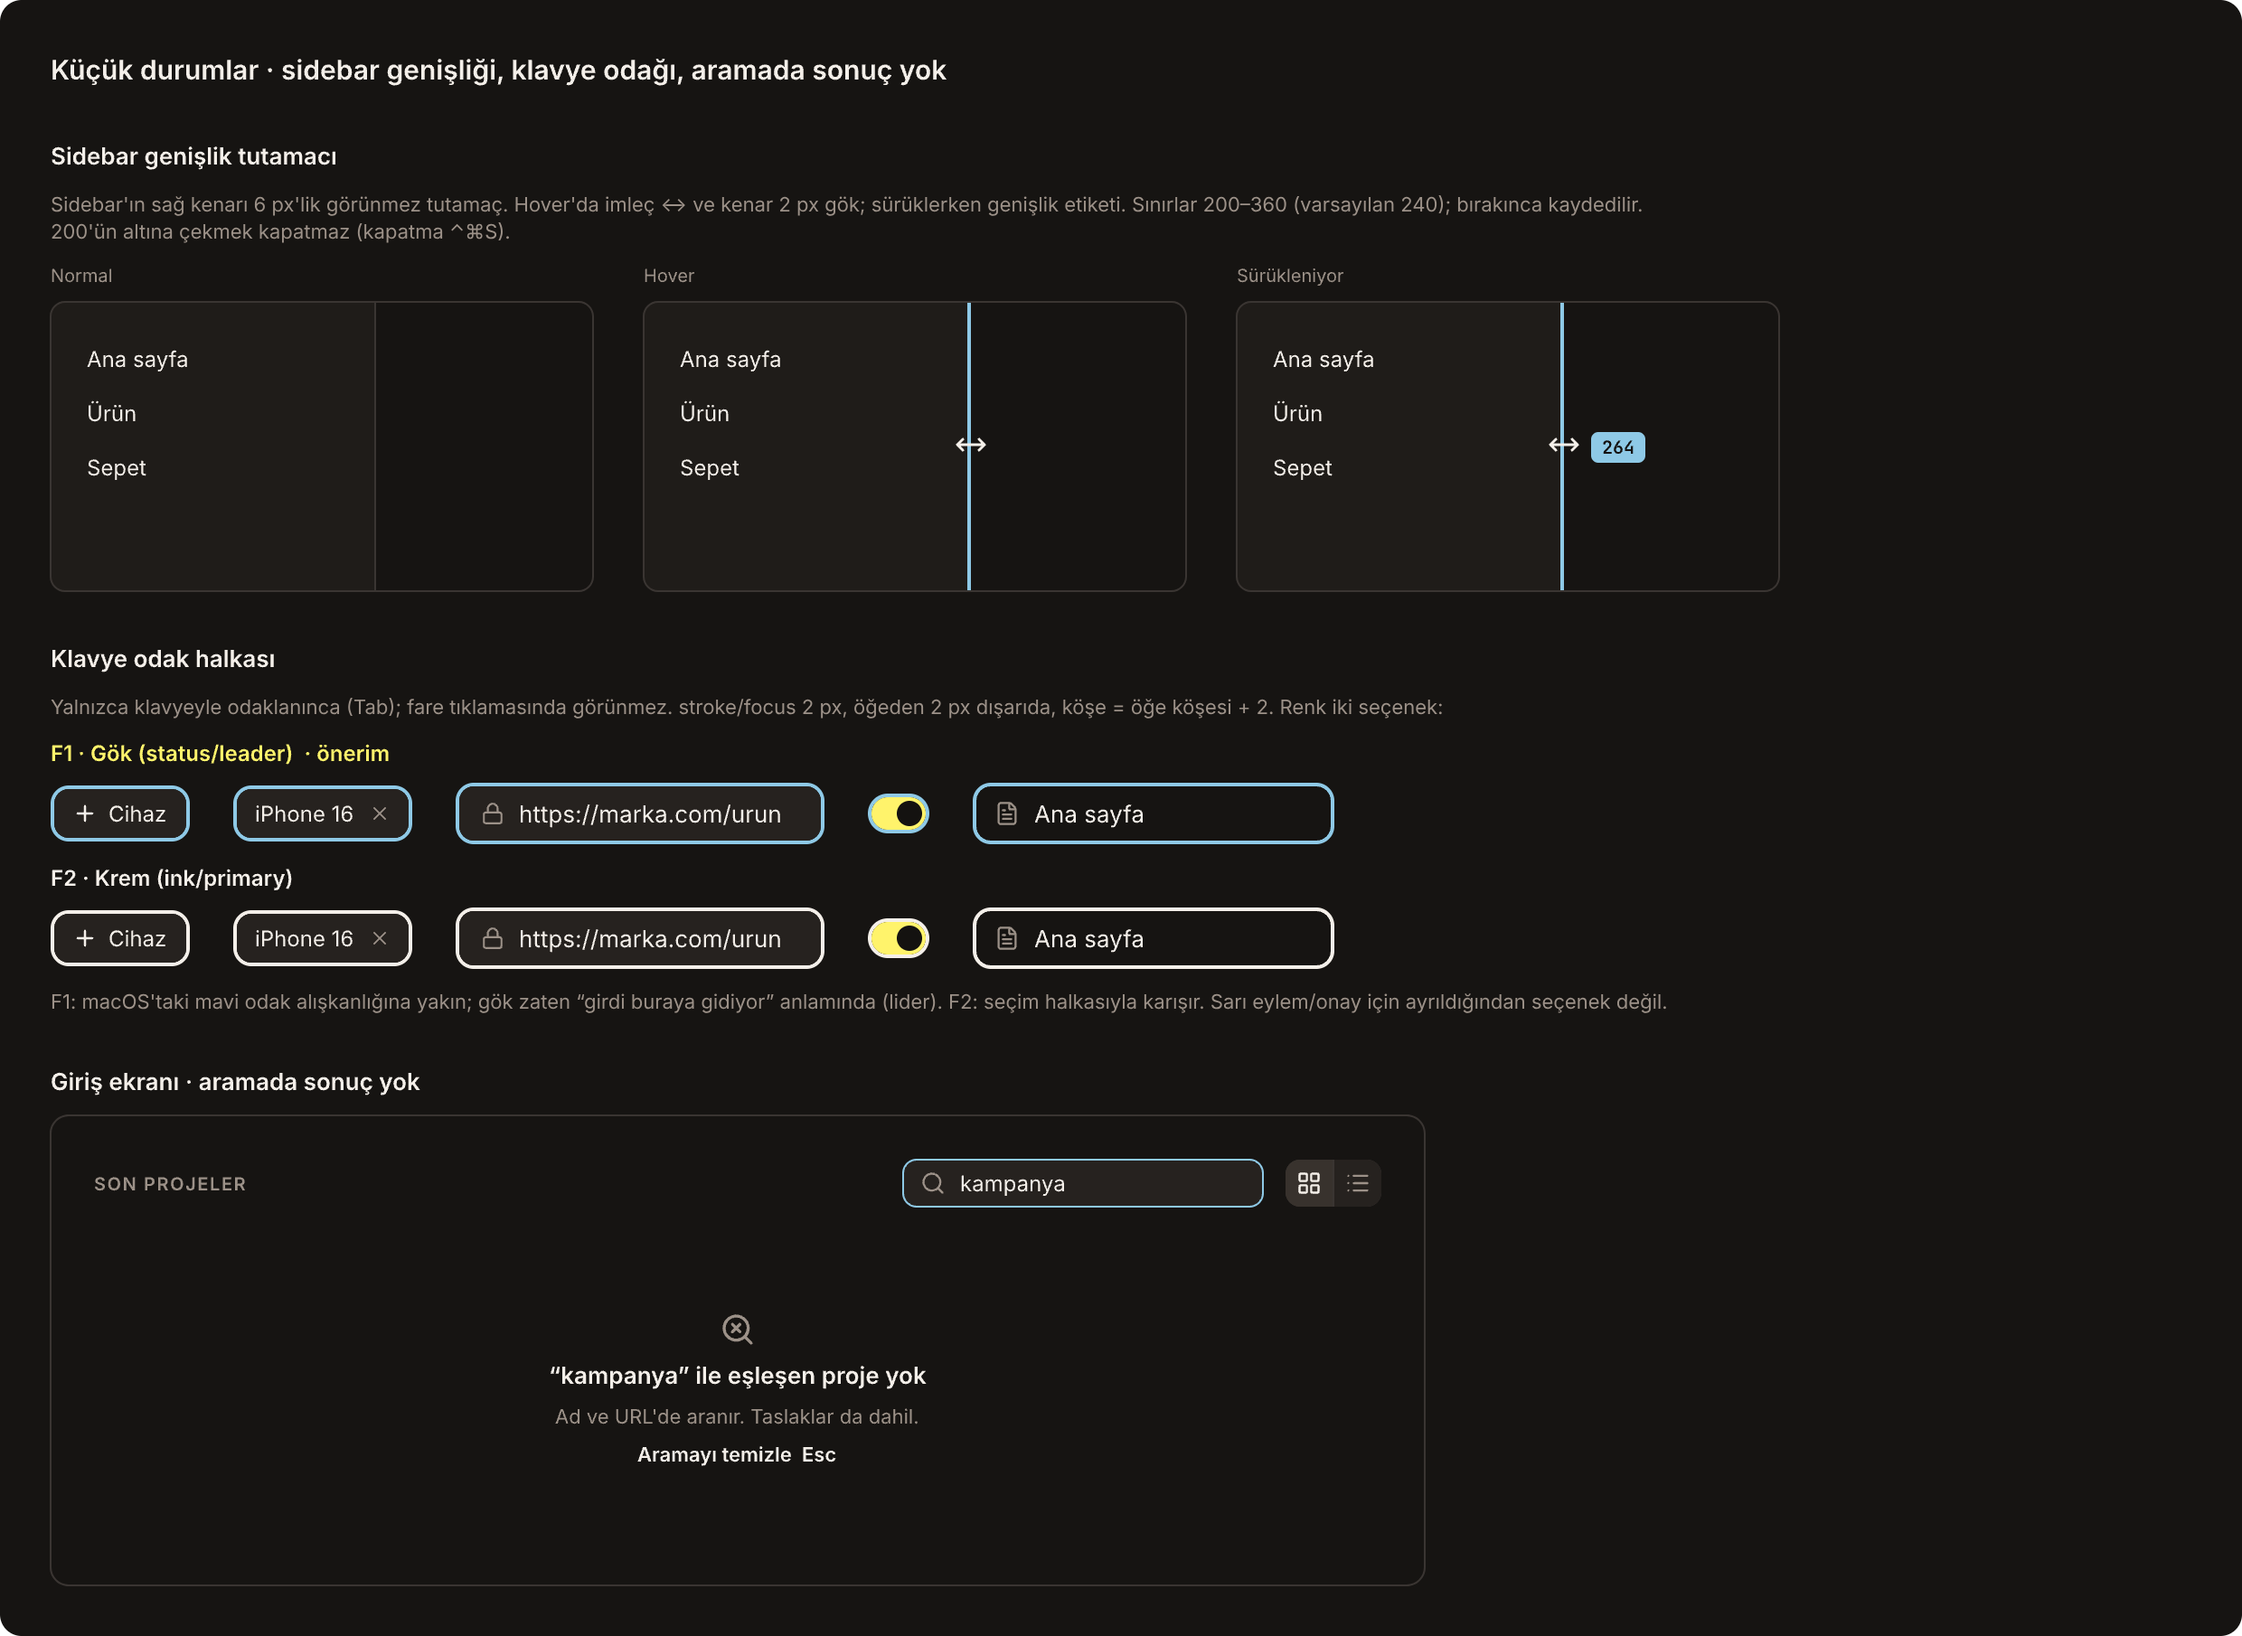
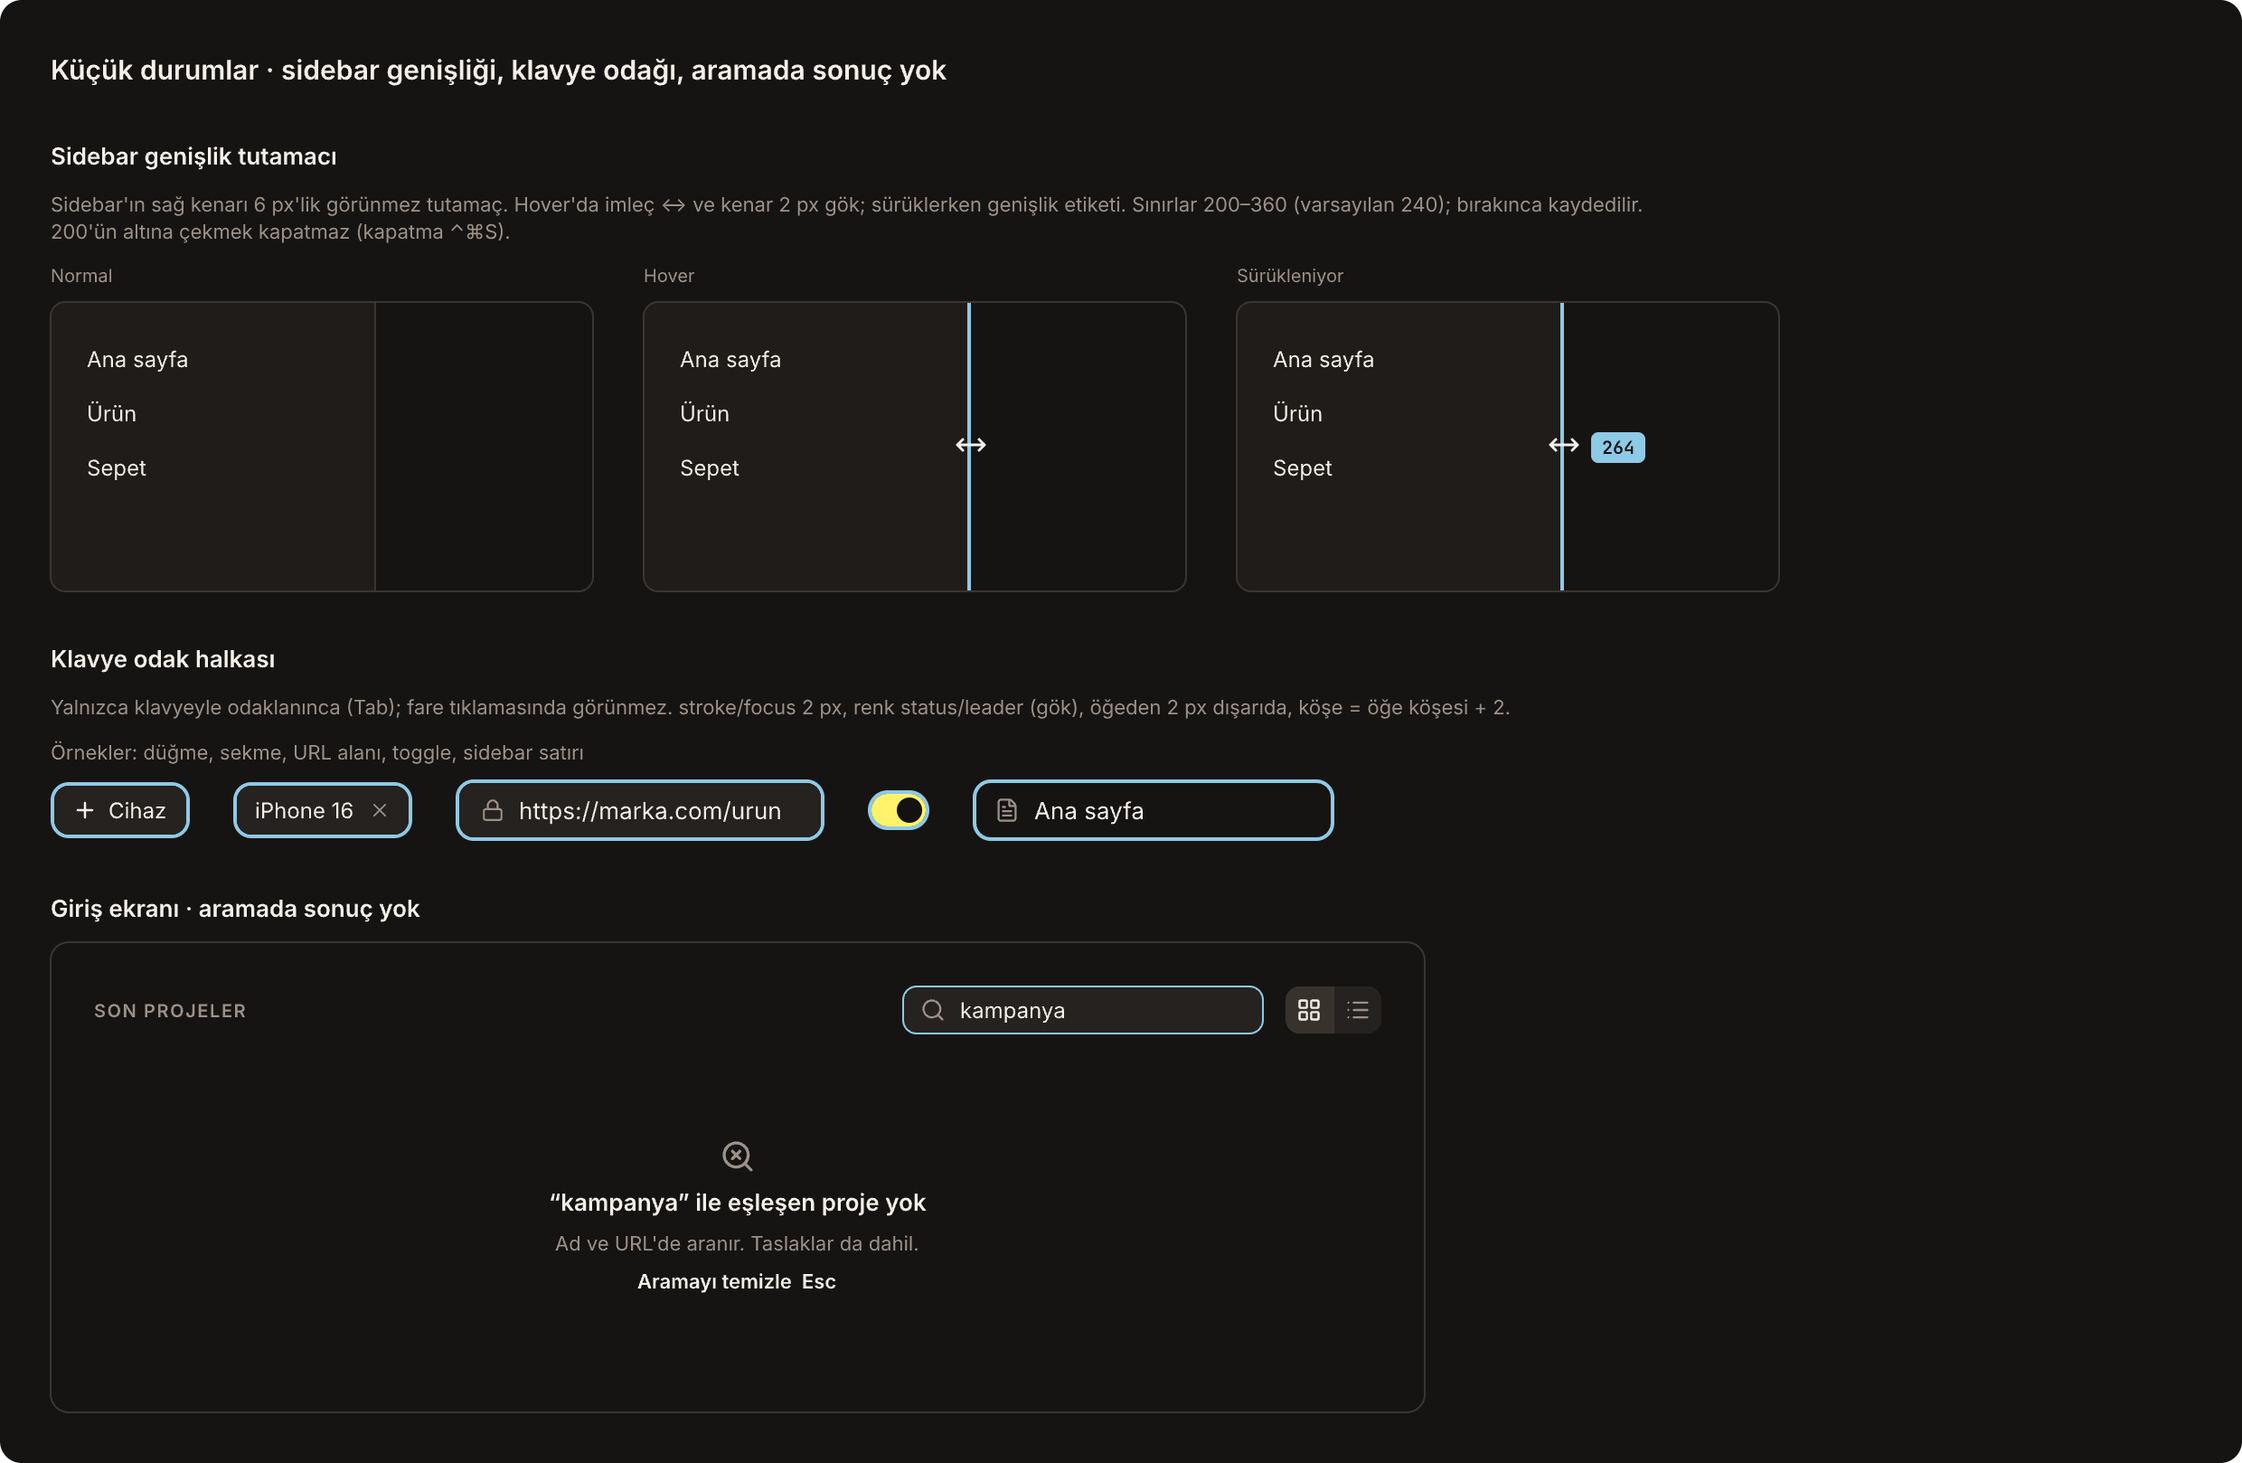
Record decisions: sidebar pages only, focus ring sky, approve new states

diff --git a/DESIGN.md b/DESIGN.md
@@ -266,6 +266,12 @@ Sağ raydan açılır, canvas'ı iter (320 px). Tasarım ilkesi: **sakin ama tek
 | Ray gizliyken sağ kenarda tutamaç (R2): ray ikonu + Farklar bulgusunda mercan nokta, tık / ⌥⌘0 geri getirir; frame `Project Window · Ray gizli`. Elenen: R1 hiçbir şey, R3 alt çubukta "Farklar n" çipi | 2026-10-11 |
 | Sidebar 240 px (önceki "220" superseded; çizimler zaten 240) | 2026-10-11 |
 | Boş URL alanı ipucu: "Adres yaz ya da yapıştır" (globe ikonu) | 2026-10-11 |
+| Sayfa yüklenemedi halleri (`Card Load Errors`): hata kartın içinde, başlık + sekmede mercan üçgen; ağ / sertifika ("Bu oturumda güven", yalnız o ana makine) / `localhost` kapalı (2 sn'de bir otomatik dener) / adres bulunamadı; altta mono hata kodu; hepsi hatadaysa kapsül "Hepsini dene"; sitenin 404/500 sayfası olduğu gibi | 2026-10-11 |
+| Kartı elle sürükleme: başlıktan tutulur, gölgeyle kalkar, hover şeridi gizli; gök hizalama çizgileri + eşit aralık rozetleri; ⌥ hizalamayı kapatır; konum projeye; Viewport › Kartları Diz otomatiğe döner | 2026-10-11 |
+| Gruplama: Görünüm › Grupla (Yok / Cihaz türü / Motor); canvas'ta grup alanı (çizgi, köşe 16, hafif zemin) + katlanır başlık "TELEFON 2"; şeritte gruplar arası ince ayırıcı | 2026-10-11 |
+| Sidebar yalnızca sayfalar (V1): cihaz listesi ve gruplar şeritte ve canvas'ta; PLAN.md M3 "Sidebar'da viewport listesi ve gruplar" maddesi şeride taşınır (PLAN'ı kod oturumu günceller). Elenen: V2 sidebar'da CİHAZLAR bölümü, V3 Sayfalar/Cihazlar sekmesi | 2026-10-11 |
+| Klavye odak halkası gök (`status/leader`), 2 px, 2 px dışarıda, yalnız klavyede (F1). Elenen: F2 krem (seçim halkasıyla karışır) | 2026-10-11 |
+| Sidebar genişlik tutamacı (6 px, hover/sürükleme 2 px gök kenar + genişlik etiketi, sınır 200–360, varsayılan 240, 200 altı kapatmaz); giriş ekranında aramada sonuç yok ("“…” ile eşleşen proje yok", Aramayı temizle Esc) | 2026-10-11 |
 
 ## 5. Bekleyen tasarım kararları
 
@@ -283,11 +289,11 @@ Sağ raydan açılır, canvas'ı iter (320 px). Tasarım ilkesi: **sakin ama tek
 10. ~~Ekran görüntüsü menüsü~~ — verildi (§3.2 alt çubuk)
 11. ~~Bildirim kapsülü~~ — verildi (`Window/Toast`, §3.2)
 
-12. **Sayfa yüklenemedi halleri** — taslak, onay bekliyor (`Card Load Errors`, `card-load-errors@2x.png`): hata kartın içinde sayfanın yerinde; başlıkta ve sekmede mercan üçgen. Ağ hatası (Yeniden dene; ⌘R hepsi), Sertifika (Geri dön · Bu oturumda güven — yalnız o ana makine, uygulama kapanana kadar), `localhost` kapalı (2 sn'de bir kendiliğinden dener + Şimdi dene), Adres bulunamadı (Adresi düzenle → ⌘L). Altta küçük mono hata kodu. Hepsi aynı hatadaysa kapsül "Sayfa n viewport'ta açılamadı · Hepsini dene". Sitenin kendi 404/500 sayfası olduğu gibi görünür.
-13. **Kartı elle sürükleme** — taslak (`Project Window · Kart sürükleniyor`, `window-project-dragging@2x.png`): kart başlığından tutulur (sayfa alanı web içeriğidir); kart gölgeyle kalkar, hover şeridi gizlenir; gök hizalama çizgileri (üst/alt/kenar) ve eşit aralık rozetleri; ⌥ basılıyken hizalama kapalı. Konum projeye kaydedilir; Viewport menüsünde "Kartları Diz" otomatik dizilime döndürür.
-14. **Gruplama** — taslak (`Project Window · Gruplar (cihaz türü)`, `window-project-groups@2x.png`): Görünüm › Grupla: Yok / Cihaz türü / Motor. Canvas'ta grup alanı (ince çizgi, köşe 16, çok hafif zemin) ve başlık "TELEFON 2" + katla oku; şeritte gruplar arasında ince ayırıcı.
-15. **Sidebar'da cihaz listesi** — karar bekliyor (`Sidebar · Cihaz listesi seçenekleri`, `sidebar-device-list-options@2x.png`): V1 sidebar yalnız sayfalar, liste şeritte (öneri) · V2 sayfaların altında CİHAZLAR bölümü · V3 Sayfalar | Cihazlar sekmesi.
-16. **Küçük durumlar** — taslak + bir karar (`Misc States`, `misc-states@2x.png`): sidebar genişlik tutamacı (6 px görünmez, hover/sürüklemede 2 px gök kenar + genişlik etiketi, sınır 200–360, bırakınca kaydedilir, 200 altı kapatmaz); klavye odak halkası 2 px, yalnız klavyede — renk F1 gök (öneri) / F2 krem; giriş ekranında aramada sonuç yok ("“…” ile eşleşen proje yok", "Aramayı temizle Esc").
+12. ~~Sayfa yüklenemedi halleri~~ — verildi (2026-10-11, §4) (`Card Load Errors`, `card-load-errors@2x.png`): hata kartın içinde sayfanın yerinde; başlıkta ve sekmede mercan üçgen. Ağ hatası (Yeniden dene; ⌘R hepsi), Sertifika (Geri dön · Bu oturumda güven — yalnız o ana makine, uygulama kapanana kadar), `localhost` kapalı (2 sn'de bir kendiliğinden dener + Şimdi dene), Adres bulunamadı (Adresi düzenle → ⌘L). Altta küçük mono hata kodu. Hepsi aynı hatadaysa kapsül "Sayfa n viewport'ta açılamadı · Hepsini dene". Sitenin kendi 404/500 sayfası olduğu gibi görünür.
+13. ~~Kartı elle sürükleme~~ — verildi (2026-10-11, §4) (`Project Window · Kart sürükleniyor`, `window-project-dragging@2x.png`): kart başlığından tutulur (sayfa alanı web içeriğidir); kart gölgeyle kalkar, hover şeridi gizlenir; gök hizalama çizgileri (üst/alt/kenar) ve eşit aralık rozetleri; ⌥ basılıyken hizalama kapalı. Konum projeye kaydedilir; Viewport menüsünde "Kartları Diz" otomatik dizilime döndürür.
+14. ~~Gruplama~~ — verildi (2026-10-11, §4) (`Project Window · Gruplar (cihaz türü)`, `window-project-groups@2x.png`): Görünüm › Grupla: Yok / Cihaz türü / Motor. Canvas'ta grup alanı (ince çizgi, köşe 16, çok hafif zemin) ve başlık "TELEFON 2" + katla oku; şeritte gruplar arasında ince ayırıcı.
+15. ~~Sidebar'da cihaz listesi~~ — verildi: V1 (2026-10-11, §4). Seçenekler arşivde (`Archive · Sidebar · Cihaz listesi seçenekleri`, `sidebar-device-list-options@2x.png`).
+16. ~~Küçük durumlar~~ — verildi (2026-10-11, §4; `Misc States`, `misc-states@2x.png`): sidebar genişlik tutamacı (6 px görünmez, hover/sürüklemede 2 px gök kenar + genişlik etiketi, sınır 200–360, bırakınca kaydedilir, 200 altı kapatmaz); klavye odak halkası 2 px, yalnız klavyede — renk gök (F1; F2 krem reddedildi); giriş ekranında aramada sonuç yok ("“…” ile eşleşen proje yok", "Aramayı temizle Esc").
 
 ## 6. Tasarım sistemi (`design/viewportix.pen`)
 

diff --git a/design/notlar/2026-10-11.md b/design/notlar/2026-10-11.md
@@ -3,3 +3,4 @@
 - Kullanıcı: önerilerin hepsini asıla aktar, MCP ve Hesap taslaktaki gibi. Kararlar: Cihazlar C1, R2 tutamaç, sidebar 240, URL ipucu "Adres yaz ya da yapıştır". Yeni frame'ler (02 satırı, y=1900): `Project Window · Ayarlar › Cihazlar` (dMDOK, x=9360), `› MCP` (R0VEg, 10920), `› Hesap` (P8hJd5, 12480), `Project Window · Ray gizli` (O7JgxK, 14040). Yeni bileşen `Window/RailHandle` (vDAMf, 00b). Chrome Spec ray bölümüne "Gizli · tutamaç" durumu; Tokens tablosuna RailHandle satırı. `TEMP · Açık sorular` ve PNG'si silindi. **İşlendi** (DESIGN.md §3.3, §4, §6; KOD-OTURUMU-ISLERI §11).
 - Kullanıcı: TEMP dosyayı sil, kod için güncelle. `TEMP · Medya duraklatma açıklaması` (MRl49) ve PNG'si silindi; eski A/B deneme çıktıları `d9I12W.png`, `FeZah.png` (frame'leri yoktu) silindi. HANDOFF baştan yazıldı (kod oturumu için okuma sırası, açık işler); KOD-OTURUMU-ISLERI §2 superseded, §12 uygulama sırası + medya notu. **İşlendi**.
 - Kullanıcı: eksik çizimleri yap. Çizildi: `Card Load Errors` (s3Atj, 05, x=10400), `Project Window · Kart sürükleniyor` (q6obk, 03, x=9360), `Project Window · Gruplar (cihaz türü)` (N1dkY, 03, x=10920), `Sidebar · Cihaz listesi seçenekleri` (vbGSj, 03, x=12480), `Misc States` (g5nQ0p, 05, x=12200). Bulgu: lucide'de `grab` yok → `hand-grab`. DESIGN.md §5'e 12–16 olarak 'taslak / karar bekliyor' işlendi. Karar bekliyor.
+- Karar: V1 (sidebar yalnız sayfalar), F1 (odak gök), diğer taslaklar onaylandı. Seçenek frame'i arşive (x=-10000, y=3280); Misc States'ten F2 satırı kaldırıldı. Kullanıcı: 'koda aktarma daha' → KOD-OTURUMU-ISLERI'ye eklenmedi, HANDOFF'ta beklemede notu. **İşlendi** (DESIGN.md §4, §5 12–16).

diff --git a/design/HANDOFF.md b/design/HANDOFF.md
@@ -24,7 +24,7 @@ Dışa aktarım adları: `window-project-*` (proje penceresi halleri), `window-h
 
 ## Açık tasarım işleri (M3'ün beklediği, sırayla)
 
-2026-10-11: dördü de çizildi, kullanıcı onayı bekliyor (DESIGN.md §5 madde 12–16). Kod oturumu bunlara onaydan önce başlamasın.
+2026-10-11: dördü de çizildi ve kullanıcı onayladı (DESIGN.md §4; §5 madde 12–16 kapandı; sidebar V1, odak gök). **Kullanıcı kararı: henüz koda aktarılmıyor** — KOD-OTURUMU-ISLERI'ye yazılmadı; kod oturumu bu beş konuya kullanıcı açıkça aktarana kadar başlamasın.
 
 
 1. Viewport kartında **sayfa yüklenemedi** halleri (ağ, sertifika, `localhost` kapalı).
